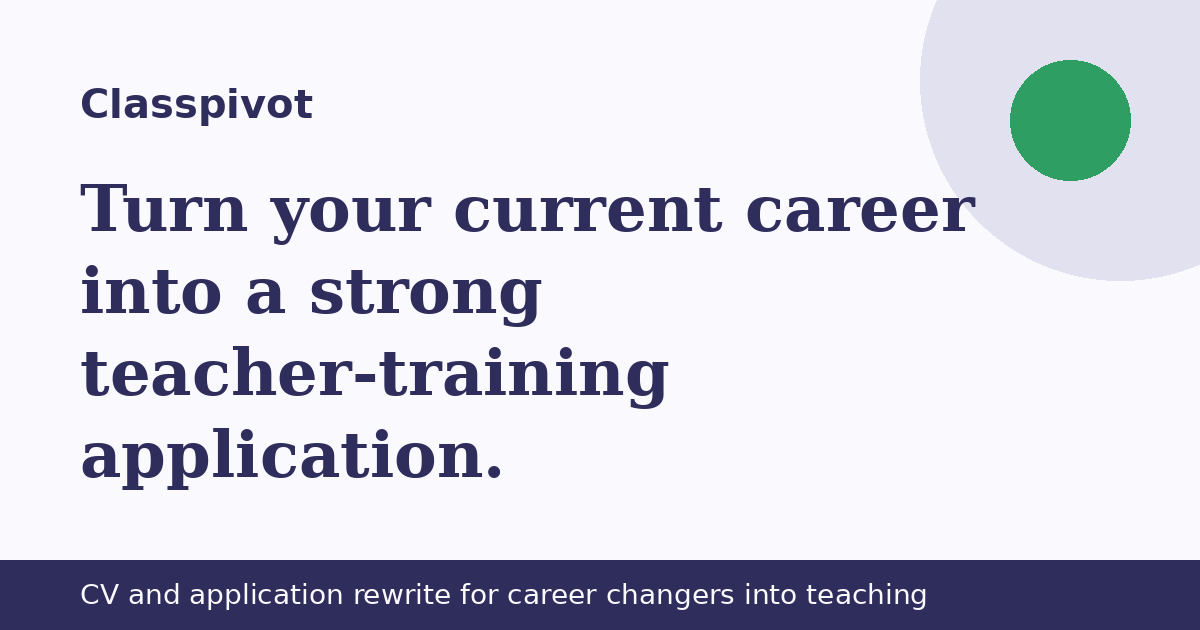
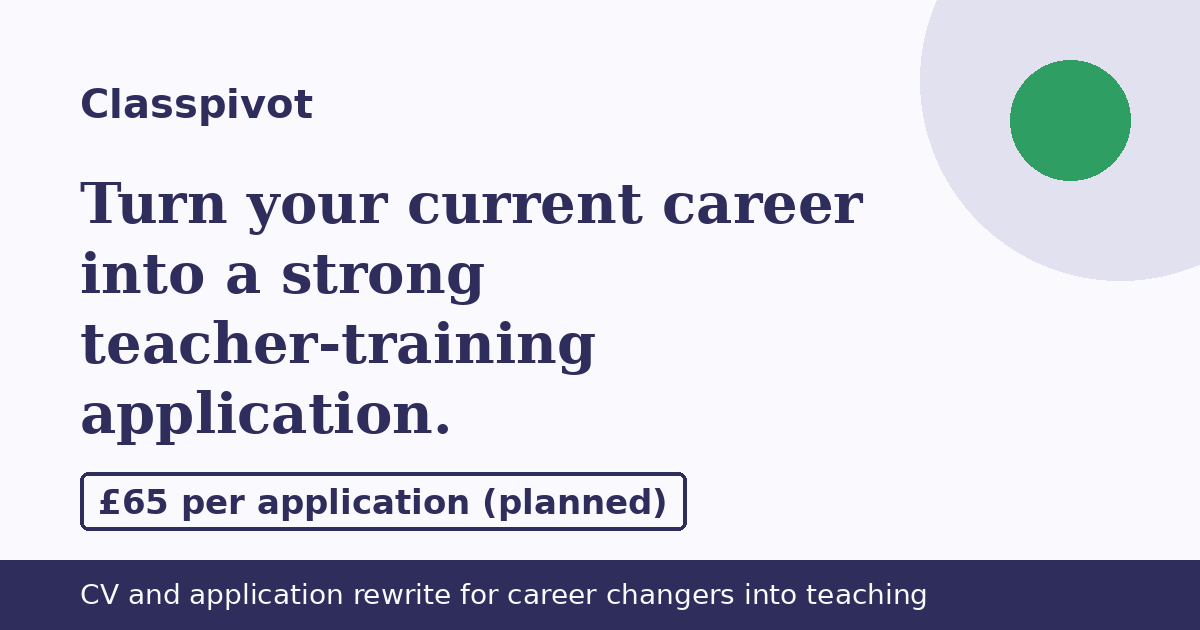
Publish site 2026-10-21 08:27 BST

Changed region(s): [[0.0617, 0.2714, 0.8325, 0.8444]]

diff --git a/index.html b/index.html
@@ -3,7 +3,7 @@
 <head>
 <meta charset="utf-8">
 <meta name="viewport" content="width=device-width, initial-scale=1">
-<meta http-equiv="Content-Security-Policy" content="default-src 'self'; img-src 'self' data: https://localreplyloop.goatcounter.com; style-src 'self'; script-src 'self'; font-src 'self'; connect-src 'self' https://formsubmit.co; form-action 'self'; base-uri 'self'; object-src 'none'">
+<meta http-equiv="Content-Security-Policy" content="default-src 'self'; img-src 'self' data: https://localreplyloop.goatcounter.com; style-src 'self'; script-src 'self'; font-src 'self'; connect-src 'self'; form-action 'self'; base-uri 'self'; object-src 'none'">
 <meta name="referrer" content="strict-origin-when-cross-origin">
 <title>Classpivot: Turn your current career into a strong teacher-training application</title>
 <meta name="description" content="A rewrite of your CV and teacher-training personal statement that translates your current work into what training providers look for.">
@@ -21,21 +21,14 @@
 </head>
 <body>
 <a class="skip" href="#main">Skip to content</a>
-<header><div class="wrap top"><a class="brand" href="./"><svg viewBox="0 0 64 64" aria-hidden="true" width="34" height="34"><circle cx="32" cy="32" r="32" fill="#2F2D5C"/><text x="32" y="43" text-anchor="middle" font-family="Georgia, serif" font-weight="700" font-size="30" fill="#FAF9FD">C</text><circle cx="50" cy="50" r="6" fill="#2E9E62"/></svg>Classpivot</a><nav aria-label="Primary"><a href="#how">How it works</a><a href="#faq">Questions</a><a href="#contact">Contact</a></nav></div></header><section class="hero"><div class="wrap"><span class="draft">Draft: not yet available. Enquiries welcome.</span><br><span class="eyebrow">Service · draft offer · CV and application rewrite for career changers into teaching</span><h1>Turn your current career into a strong teacher-training application.</h1><p class="lede">Classpivot helps career changers rewrite their CV and personal statement for teacher training, so years of work experience read as classroom-ready skills rather than a gap.</p><div class="ctas"><a class="btn" href="#contact" data-cta="hero">Make an enquiry</a><a class="btn ghost" href="#faq" data-cta="hero-secondary">Questions</a></div><div class="art"><svg viewBox="0 0 400 400" role="img" aria-label="Decorative pattern" class="motif" preserveAspectRatio="xMidYMid slice"><path d="M 40 380 A 160 160 0 0 1 360 380" fill="none" stroke="#2F2D5C" stroke-width="18" stroke-opacity="1.00"/><path d="M 70 380 A 130 130 0 0 1 330 380" fill="none" stroke="#2E9E62" stroke-width="18" stroke-opacity="0.85"/><path d="M 100 380 A 100 100 0 0 1 300 380" fill="none" stroke="#2F2D5C" stroke-width="18" stroke-opacity="0.70"/><path d="M 130 380 A 70 70 0 0 1 270 380" fill="none" stroke="#2F2D5C" stroke-width="18" stroke-opacity="0.55"/><path d="M 160 380 A 40 40 0 0 1 240 380" fill="none" stroke="#2F2D5C" stroke-width="18" stroke-opacity="0.40"/></svg></div></div></section>
+<header><div class="wrap top"><a class="brand" href="./"><svg viewBox="0 0 64 64" aria-hidden="true" width="34" height="34"><circle cx="32" cy="32" r="32" fill="#2F2D5C"/><text x="32" y="43" text-anchor="middle" font-family="Georgia, serif" font-weight="700" font-size="30" fill="#FAF9FD">C</text><circle cx="50" cy="50" r="6" fill="#2E9E62"/></svg>Classpivot</a><nav aria-label="Primary"><a href="#how">How it works</a><a href="#faq">Questions</a><a href="#contact">Contact</a></nav></div></header>
 <main id="main">
+<section class="hero"><div class="wrap"><span class="draft">Draft: not yet available. Enquiries welcome.</span><br><span class="eyebrow">Service · draft offer · CV and application rewrite for career changers into teaching</span><h1>Turn your current career into a strong teacher-training application.</h1><p class="lede">Classpivot helps career changers rewrite their CV and personal statement for teacher training, so years of work experience read as classroom-ready skills rather than a gap.</p><div class="ctas"><a class="btn" href="#contact" data-cta="hero">Make an enquiry</a><a class="btn ghost" href="#faq" data-cta="hero-secondary">Questions</a></div><figure class="art"><svg viewBox="0 0 400 400" aria-hidden="true" focusable="false" class="motif"><rect x="40" y="70" width="140" height="190" rx="14" fill="#2F2D5C"/><rect x="48" y="78" width="124" height="174" rx="8" fill="#FAF9FD"/><circle cx="110" cy="120" r="22" fill="#E2E1F0"/><rect x="64" y="160" width="92" height="8" rx="4" fill="#E2E1F0"/><rect x="64" y="186" width="62" height="8" rx="4" fill="#E2E1F0"/><rect x="64" y="212" width="32" height="8" rx="4" fill="#E2E1F0"/><path d="M190 170 C 230 170 230 230 270 230" fill="none" stroke="#2E9E62" stroke-width="12" stroke-linecap="round" stroke-linejoin="round"/><path d="M262 212 l26 18 -26 18z" fill="#2E9E62"/><rect x="220" y="250" width="160" height="110" rx="6" fill="#2F2D5C"/><rect x="232" y="262" width="136" height="86" rx="3" fill="#E2E1F0"/><path d="M250 290 h70 M250 315 h40" fill="none" stroke="#FAF9FD" stroke-width="6" stroke-linecap="round" stroke-linejoin="round"/></svg><figcaption class="fine">Illustrative</figcaption></figure></div></section>
 <section class="tint" id="how"><div class="wrap"><span class="eyebrow">How it works</span><h2>A rewrite of your CV and teacher-training personal statement that translates your current work into what training providers look for.</h2><div class="steps"><div class="step"><h3>Send your CV and draft</h3><p>Plus the subject and phase you&#x27;re applying for.</p></div><div class="step"><h3>We rewrite</h3><p>Your experience, framed for training providers.</p></div><div class="step"><h3>One revision round</h3><p>We adjust after your feedback.</p></div></div></div></section>
 <section><div class="wrap"><span class="eyebrow">Who it is for</span><h2>For professionals applying for teacher training in England.</h2><div class="points"><div class="point"><h3>Your words, sharper</h3><p>We edit and restructure. We don&#x27;t invent experience.</p></div><div class="point"><h3>Subject-aware</h3><p>Framed for your subject and phase.</p></div><div class="point"><h3>No guarantees</h3><p>Selection is up to training providers.</p></div></div></div></section>
 <section class="tint" id="price"><div class="wrap"><span class="eyebrow">Planned price</span><div class="pricebox"><p class="price">£65 per application (planned)</p><p>This is a draft offer and is not taking orders yet. Nothing can be bought on this website.</p></div></div></section>
-<section id="faq"><div class="wrap"><span class="eyebrow">Questions</span><h2>Common questions</h2><details><summary>Is this available now?</summary><p>It&#x27;s a draft offer. Enquire and we&#x27;ll reply about timing.</p></details><details><summary>Can you guarantee a place?</summary><p>No. We improve the application, not the decision.</p></details><details><summary>Will you write it from scratch?</summary><p>We work from your own draft and experience.</p></details><p class="fine" style="margin-top:18px">Classpivot is an editing service. It is not affiliated with the Department for Education or any training provider.</p></div></section>
-<section class="tint" id="contact"><div class="wrap contact-grid"><div><span class="eyebrow">Contact</span><h2>Make an enquiry</h2><p>Classpivot is new and run by one person. Every message is read and answered by email, usually within two working days.</p><p>Email: <a href="mailto:localreply+classpivot@agentmail.to">localreply+classpivot@agentmail.to</a></p></div><form class="form" data-contact data-formsubmit="localreply+classpivot@agentmail.to" data-email="localreply+classpivot@agentmail.to" data-subject="Classpivot enquiry" novalidate>
-<div><label for="f-name">Your name</label><input id="f-name" name="name" autocomplete="name" required></div>
-<div><label for="f-email">Email</label><input id="f-email" name="email" type="email" autocomplete="email" required></div>
-<div><label for="f-plan">About</label><select id="f-plan" name="plan"><option value="CV only">CV only</option><option value="CV and personal statement">CV and personal statement</option><option value="A question">A question</option></select></div>
-<div><label for="f-message">Message</label><textarea id="f-message" name="message"></textarea></div>
-<p class="hint">Your message goes to our inbox through FormSubmit (formsubmit.co), our form-delivery provider. If that fails, your own email app opens instead. See our <a href="privacy.html">privacy notice</a>.</p>
-<button class="btn" type="submit">Make an enquiry</button>
-<p class="form-status" role="status" aria-live="polite"></p>
-</form></div></section>
+<section id="faq"><div class="wrap"><span class="eyebrow">Questions</span><h2>Common questions</h2><details><summary>Is this available now?</summary><p>It&#x27;s a draft offer. Enquiries are received, but we can’t promise a reply or a timeframe yet.</p></details><details><summary>Can you guarantee a place?</summary><p>No. We improve the application, not the decision.</p></details><details><summary>Will you write it from scratch?</summary><p>We work from your own draft and experience.</p></details><p class="fine" style="margin-top:18px">Classpivot is an editing service. It is not affiliated with the Department for Education or any training provider.</p></div></section>
+<section class="tint" id="contact"><div class="wrap contact-grid"><div><span class="eyebrow">Contact</span><h2>Make an enquiry</h2><p>Classpivot is new and run by one person. Messages go to our inbox. We can’t promise a reply or a timeframe yet.</p><p>Email: <a href="mailto:localreply+classpivot@agentmail.to">localreply+classpivot@agentmail.to</a></p></div><div class="form contact-mail"><p><a class="btn" href="mailto:localreply+classpivot@agentmail.to?subject=%5BClasspivot%5D%20Enquiry" data-cta="enquire">Email Classpivot</a></p><p class="hint">This opens your own email app. Nothing is sent through this website. See our <a href="privacy.html">privacy notice</a>.</p></div></div></section>
 </main><footer><div class="wrap"><p>Operated by a UK sole trader trading as Classpivot. Contact: localreply+classpivot@agentmail.to. Postal address available on written request.</p>
 <p><a href="privacy.html">Privacy</a><a href="terms.html">Terms</a><a href="./#contact">Contact</a></p>
 <p class="fine">Classpivot is an editing service. It is not affiliated with the Department for Education or any training provider.</p></div></footer>

diff --git a/privacy.html b/privacy.html
@@ -3,7 +3,7 @@
 <head>
 <meta charset="utf-8">
 <meta name="viewport" content="width=device-width, initial-scale=1">
-<meta http-equiv="Content-Security-Policy" content="default-src 'self'; img-src 'self' data: https://localreplyloop.goatcounter.com; style-src 'self'; script-src 'self'; font-src 'self'; connect-src 'self' https://formsubmit.co; form-action 'self'; base-uri 'self'; object-src 'none'">
+<meta http-equiv="Content-Security-Policy" content="default-src 'self'; img-src 'self' data: https://localreplyloop.goatcounter.com; style-src 'self'; script-src 'self'; font-src 'self'; connect-src 'self'; form-action 'self'; base-uri 'self'; object-src 'none'">
 <meta name="referrer" content="strict-origin-when-cross-origin">
 <title>Privacy notice | Classpivot</title>
 <meta name="description" content="Privacy notice for Classpivot.">
@@ -21,13 +21,13 @@
 </head>
 <body>
 <a class="skip" href="#main">Skip to content</a>
-<header><div class="wrap top"><a class="brand" href="./"><svg viewBox="0 0 64 64" aria-hidden="true" width="34" height="34"><circle cx="32" cy="32" r="32" fill="#2F2D5C"/><text x="32" y="43" text-anchor="middle" font-family="Georgia, serif" font-weight="700" font-size="30" fill="#FAF9FD">C</text><circle cx="50" cy="50" r="6" fill="#2E9E62"/></svg>Classpivot</a><nav aria-label="Primary"><a href="#how">How it works</a><a href="#faq">Questions</a><a href="#contact">Contact</a></nav></div></header><main id="main"><section><div class="wrap legal"><h1>Privacy notice</h1><p class="fine">Last updated 19 October 2026</p>
+<header><div class="wrap top"><a class="brand" href="./"><svg viewBox="0 0 64 64" aria-hidden="true" width="34" height="34"><circle cx="32" cy="32" r="32" fill="#2F2D5C"/><text x="32" y="43" text-anchor="middle" font-family="Georgia, serif" font-weight="700" font-size="30" fill="#FAF9FD">C</text><circle cx="50" cy="50" r="6" fill="#2E9E62"/></svg>Classpivot</a><nav aria-label="Primary"><a href="#how">How it works</a><a href="#faq">Questions</a><a href="#contact">Contact</a></nav></div></header><main id="main"><section><div class="wrap legal"><h1>Privacy notice</h1><p class="fine">Last updated 20 October 2026</p>
 <p><span>Operated by a UK sole trader trading as Classpivot. Contact: localreply+classpivot@agentmail.to. Postal address available on written request.</span> We are the controller for the personal data described here. For anything in this notice, email <a href="mailto:localreply+classpivot@agentmail.to">localreply+classpivot@agentmail.to</a> with “Classpivot” in the subject line.</p>
-<h2>What we collect</h2><p>If you use the form or email us, we receive your name, email address, anything you write in your message and, if you give it, your postcode or town. We use it only to reply to you and, if you ask for it, to deal with your enquiry.</p>
+<h2>What we collect</h2><p>If you email us, we receive your name, email address, anything you write in your message and, if you give it, your postcode or town. We use it only to reply to you and, if you ask for it, to deal with your enquiry.</p>
 <h2>Lawful basis</h2><p>Replying to an enquiry you send us is in our legitimate interests, or steps taken at your request before any agreement (UK GDPR Article 6(1)(f) and 6(1)(b)).</p>
-<h2>Who processes it for us</h2><p>FormSubmit (formsubmit.co) delivers form messages to our inbox. AgentMail (agentmail.to) hosts the inbox. GitHub Pages hosts this website and may log technical data such as IP addresses for security. Some of these providers process data outside the UK under their own safeguards.</p>
+<h2>Who processes it for us</h2><p>AgentMail (agentmail.to) hosts our inbox. GitHub Pages hosts this website and may log technical data such as IP addresses for security. Some of these providers process data outside the UK under their own safeguards.</p>
 <h2>Cookies and analytics</h2><p>We set no cookies. We count page views with GoatCounter, which records the page, referrer and screen size but no cookies and no personal profile. It does not run if your browser sends Do Not Track or Global Privacy Control.</p>
-<h2>How long we keep it</h2><p>We keep enquiry emails for up to 12 months after our last contact, unless you become a customer, in which case we keep records as the law requires.</p>
+<h2>How long we keep it</h2><p>We delete enquiry and order data 30 days after our last contact or after delivery. We keep only the basic order record that tax law requires.</p>
 <h2>Your rights</h2><p>You can ask for a copy of your data, ask us to correct or delete it, or object to how we use it, by emailing <a href="mailto:localreply+classpivot@agentmail.to">localreply+classpivot@agentmail.to</a>. You can complain to the Information Commissioner's Office (ico.org.uk).</p></div></section></main><footer><div class="wrap"><p>Operated by a UK sole trader trading as Classpivot. Contact: localreply+classpivot@agentmail.to. Postal address available on written request.</p>
 <p><a href="privacy.html">Privacy</a><a href="terms.html">Terms</a><a href="./#contact">Contact</a></p>
 <p class="fine">Classpivot is an editing service. It is not affiliated with the Department for Education or any training provider.</p></div></footer>

diff --git a/assets/site.css b/assets/site.css
@@ -1,7 +1,7 @@
 @font-face{font-family:'IBM Plex Mono';font-weight:500;font-style:normal;font-display:swap;src:url(fonts/ibm-plex-mono-latin-500-normal.woff2) format('woff2')}
 @font-face{font-family:'IBM Plex Sans';font-weight:400;font-style:normal;font-display:swap;src:url(fonts/ibm-plex-sans-latin-400-normal.woff2) format('woff2')}
 @font-face{font-family:'IBM Plex Sans';font-weight:600;font-style:normal;font-display:swap;src:url(fonts/ibm-plex-sans-latin-600-normal.woff2) format('woff2')}
-:root{--ink:#2F2D5C;--paper:#FAF9FD;--acc:#2E9E62;--acc-text:#217247;--on-acc:#111111;--soft:#E2E1F0;--on-ink:#FAF9FD;--r:22px;--br:999px;--head:'IBM Plex Mono', ui-monospace, monospace;--body:'IBM Plex Sans', system-ui, sans-serif}
+:root{--ink:#2F2D5C;--paper:#FAF9FD;--acc:#2E9E62;--acc-text:#1F6B43;--on-acc:#111111;--acc-btn:#2E9E62;--soft:#E2E1F0;--on-ink:#FAF9FD;--r:22px;--br:999px;--head:'IBM Plex Mono', ui-monospace, monospace;--body:'IBM Plex Sans', system-ui, sans-serif}
 *,*::before,*::after{box-sizing:border-box}html{scroll-behavior:smooth}@media (prefers-reduced-motion:reduce){html{scroll-behavior:auto}*{transition:none!important}}
 body{margin:0;font-family:var(--body);color:var(--ink);background:var(--paper);line-height:1.6;font-size:17px;-webkit-font-smoothing:antialiased}
 h1,h2,h3{font-family:var(--head);line-height:1.15;margin:0 0 .5em;letter-spacing:-.01em}h1{font-size:clamp(2.1rem,5vw,3.6rem)}h2{font-size:clamp(1.5rem,3vw,2.2rem)}h3{font-size:1.15rem}
@@ -10,11 +10,11 @@ p{margin:0 0 1em}a{color:var(--ink);text-decoration-color:var(--acc);text-underl
 :focus-visible{outline:3px solid var(--acc);outline-offset:2px}
 .top{display:flex;align-items:center;justify-content:space-between;padding:18px 0;gap:16px}.brand{display:flex;align-items:center;gap:10px;font-family:var(--head);font-weight:700;font-size:1.25rem;text-decoration:none}
 .top nav a{margin-left:18px;font-size:.95rem;text-decoration:none}.top nav a:hover{text-decoration:underline}
-.btn{display:inline-block;background:var(--acc);color:var(--on-acc);padding:13px 22px;border-radius:var(--br);font-weight:600;text-decoration:none;border:2px solid var(--acc);cursor:pointer;font:inherit;font-weight:600}
-.btn:hover{filter:brightness(.94)}.btn.ghost{background:transparent;color:var(--ink);border-color:var(--ink)}
+.btn{display:inline-block;background:var(--acc-btn);color:var(--on-acc);padding:13px 22px;border-radius:var(--br);font-weight:600;text-decoration:none;border:2px solid var(--acc-btn);cursor:pointer;font:inherit;font-weight:600}
+.btn:hover{filter:none;box-shadow:inset 0 0 0 2px currentColor}.btn.ghost{background:transparent;color:var(--ink);border-color:var(--ink)}
 .eyebrow{display:inline-block;font-size:.8rem;letter-spacing:.12em;text-transform:uppercase;font-weight:600;color:var(--acc-text);margin-bottom:12px}
 .hero{padding:48px 0 64px}.hero .lede{font-size:1.15rem;max-width:40em}.ctas{display:flex;gap:12px;flex-wrap:wrap;margin-top:22px}
-.motif{width:100%;height:auto;max-width:420px;display:block}
+.motif{width:100%;height:auto;max-width:420px;display:block}.art{margin:0}
 .draft{display:inline-block;background:var(--soft);border:1px dashed var(--ink);padding:3px 10px;border-radius:999px;font-size:.82rem;font-weight:600;margin-bottom:14px}
 section{padding:56px 0}.tint{background:var(--soft)}
 .steps{display:grid;grid-template-columns:repeat(auto-fit,minmax(220px,1fr));gap:22px;counter-reset:s}
@@ -25,8 +25,8 @@ section{padding:56px 0}.tint{background:var(--soft)}
 details{border-bottom:1px solid color-mix(in srgb,var(--ink) 18%,transparent);padding:14px 0}summary{cursor:pointer;font-weight:600}details p{margin-top:10px}
 .form{display:grid;gap:14px;max-width:620px}.form label{font-weight:600;font-size:.95rem;display:block;margin-bottom:4px}
 .form input,.form textarea,.form select{width:100%;padding:12px;border:1.5px solid color-mix(in srgb,var(--ink) 40%,transparent);border-radius:calc(var(--r)/2);font:inherit;background:#fff;color:#111}
-.form textarea{min-height:120px}.hint,.fine{font-size:.88rem;opacity:.85}.form-status{font-weight:600}
-.contact-grid{display:grid;grid-template-columns:1fr 1.2fr;gap:40px}@media(max-width:800px){.contact-grid{grid-template-columns:1fr}.top nav{display:none}}
+.form textarea{min-height:120px}.hint,.fine{font-size:.88rem}.form-status{font-weight:600}
+.contact-grid{display:grid;grid-template-columns:1fr 1.2fr;gap:40px}@media(max-width:800px){.contact-grid{grid-template-columns:1fr}.top nav a:not([href="#contact"]){display:none}.top nav a{margin-left:0;padding:10px 0;font-weight:600}}
 footer{padding:36px 0 48px;font-size:.9rem;border-top:1px solid color-mix(in srgb,var(--ink) 15%,transparent)}footer a{margin-right:14px}
 .tool{background:var(--paper);border:2px solid var(--ink);border-radius:var(--r);padding:26px;max-width:640px}.tool .row{display:grid;grid-template-columns:1fr 140px;gap:12px;align-items:center;margin-bottom:10px}
 .tool input[type=number]{padding:10px;border:1.5px solid var(--ink);border-radius:8px;font:inherit;width:100%}.result{margin-top:16px;padding:16px;background:var(--soft);border-radius:calc(var(--r)/2);min-height:3em}

diff --git a/_shared/kit.js b/_shared/kit.js
@@ -69,24 +69,8 @@
     form.addEventListener("submit", function (e) {
       e.preventDefault();
       if (!form.reportValidity()) return;
-      // 2026-10-14: if data-formsubmit is set, deliver via FormSubmit.co straight to the brand inbox; mailto stays as fallback.
-      var fsTok = form.getAttribute("data-formsubmit");
-      if (fsTok && !form.__fsFallback && window.fetch) {
-        var fd = new FormData(form), payload = {}, st = form.querySelector("[role=status]");
-        fd.forEach(function (v, k) { if (k !== "consent") payload[k] = String(v); });
-        payload._subject = (form.getAttribute("data-subject") || "Enquiry") + (payload.business ? " — " + payload.business : "");
-        if (payload.email) payload._replyto = payload.email;
-        payload._captcha = "false"; payload._template = "table";
-        fetch("https://formsubmit.co/ajax/" + fsTok, { method: "POST", headers: { "Content-Type": "application/json", "Accept": "application/json" }, body: JSON.stringify(payload) })
-          .then(function (r) { return r.json(); })
-          .then(function (j) {
-            if (String(j.success) !== "true") throw new Error("fs");
-            if (st) { st.textContent = "Thanks" + (payload.name ? ", " + payload.name.trim().split(" ")[0] : "") + " — your message has been sent. We reply by email."; st.classList.add("is-visible"); }
-            track("contact_sent", { plan: payload.plan || null }); form.reset();
-          })
-          .catch(function () { form.__fsFallback = true; if (st) { st.textContent = "Sending didn't work — opening your email app instead."; st.classList.add("is-visible"); } form.requestSubmit ? form.requestSubmit() : form.dispatchEvent(new Event("submit", { cancelable: true })); });
-        return;
-      }
+      // The form only composes an email
+      // in the visitor's own mail app; nothing is sent through any third-party form processor.
       var to = form.getAttribute("data-email") || cfg.contactEmail;
       var data = new FormData(form);
       var name = (data.get("name") || "").toString().trim();

diff --git a/_shared/kit.css b/_shared/kit.css
@@ -73,6 +73,7 @@ p { margin: 0; }
 .mobile-nav.is-open { display: block; }
 .mobile-nav a { display: flex; align-items: center; min-height: 52px; padding: 0 1.25rem; color: var(--text); text-decoration: none; font-weight: 500; border-bottom: 1px solid var(--line); }
 .mobile-nav .btn { margin: 1rem 1.25rem 1.25rem; display: flex; }
+.mobile-nav .btn--primary, .mobile-nav .btn--primary:hover { color: #fff; }
 @media (min-width: 60rem) {
   .nav { display: flex; }
   .site-header .header-cta { display: inline-flex; margin-left: .75rem; }
@@ -329,3 +330,8 @@ html[data-paused="true"] [data-cta="checkout"] { pointer-events: none; opacity: 
 @media (min-width: 60rem) { .pricing.pricing--single { grid-template-columns: 1fr; } }
 .tier-more { max-width: 64rem; margin: 1.25rem auto 0; text-align: center; color: var(--muted); font-size: .9375rem; line-height: 1.6; }
 .tier-more a { font-weight: 600; white-space: nowrap; }
+
+.site-header .header-link { display: inline-flex; color: var(--ink); font-weight: 600; text-decoration: underline; text-underline-offset: .2em; min-height: 44px; align-items: center; padding: 0 .25rem; }
+@media (max-width: 59.99rem) { .site-header .header-link { display: none; } }
+.btn-row .text-link { display: inline-flex; align-items: center; min-height: 48px; padding: 0 .25rem; color: var(--ink); font-weight: 600; text-decoration: underline; text-underline-offset: .2em; }
+.btn-row .text-link:hover, .site-header .header-link:hover { color: var(--accent-strong); }

diff --git a/404.html b/404.html
@@ -3,7 +3,7 @@
 <head>
 <meta charset="utf-8">
 <meta name="viewport" content="width=device-width, initial-scale=1">
-<meta http-equiv="Content-Security-Policy" content="default-src 'self'; img-src 'self' data: https://localreplyloop.goatcounter.com; style-src 'self'; script-src 'self'; font-src 'self'; connect-src 'self' https://formsubmit.co; form-action 'self'; base-uri 'self'; object-src 'none'">
+<meta http-equiv="Content-Security-Policy" content="default-src 'self'; img-src 'self' data: https://localreplyloop.goatcounter.com; style-src 'self'; script-src 'self'; font-src 'self'; connect-src 'self'; form-action 'self'; base-uri 'self'; object-src 'none'">
 <meta name="referrer" content="strict-origin-when-cross-origin">
 <title>Page not found | Classpivot</title>
 <meta name="description" content="Page not found for Classpivot.">

diff --git a/terms.html b/terms.html
@@ -3,7 +3,7 @@
 <head>
 <meta charset="utf-8">
 <meta name="viewport" content="width=device-width, initial-scale=1">
-<meta http-equiv="Content-Security-Policy" content="default-src 'self'; img-src 'self' data: https://localreplyloop.goatcounter.com; style-src 'self'; script-src 'self'; font-src 'self'; connect-src 'self' https://formsubmit.co; form-action 'self'; base-uri 'self'; object-src 'none'">
+<meta http-equiv="Content-Security-Policy" content="default-src 'self'; img-src 'self' data: https://localreplyloop.goatcounter.com; style-src 'self'; script-src 'self'; font-src 'self'; connect-src 'self'; form-action 'self'; base-uri 'self'; object-src 'none'">
 <meta name="referrer" content="strict-origin-when-cross-origin">
 <title>Terms of use | Classpivot</title>
 <meta name="description" content="Terms of use for Classpivot.">
